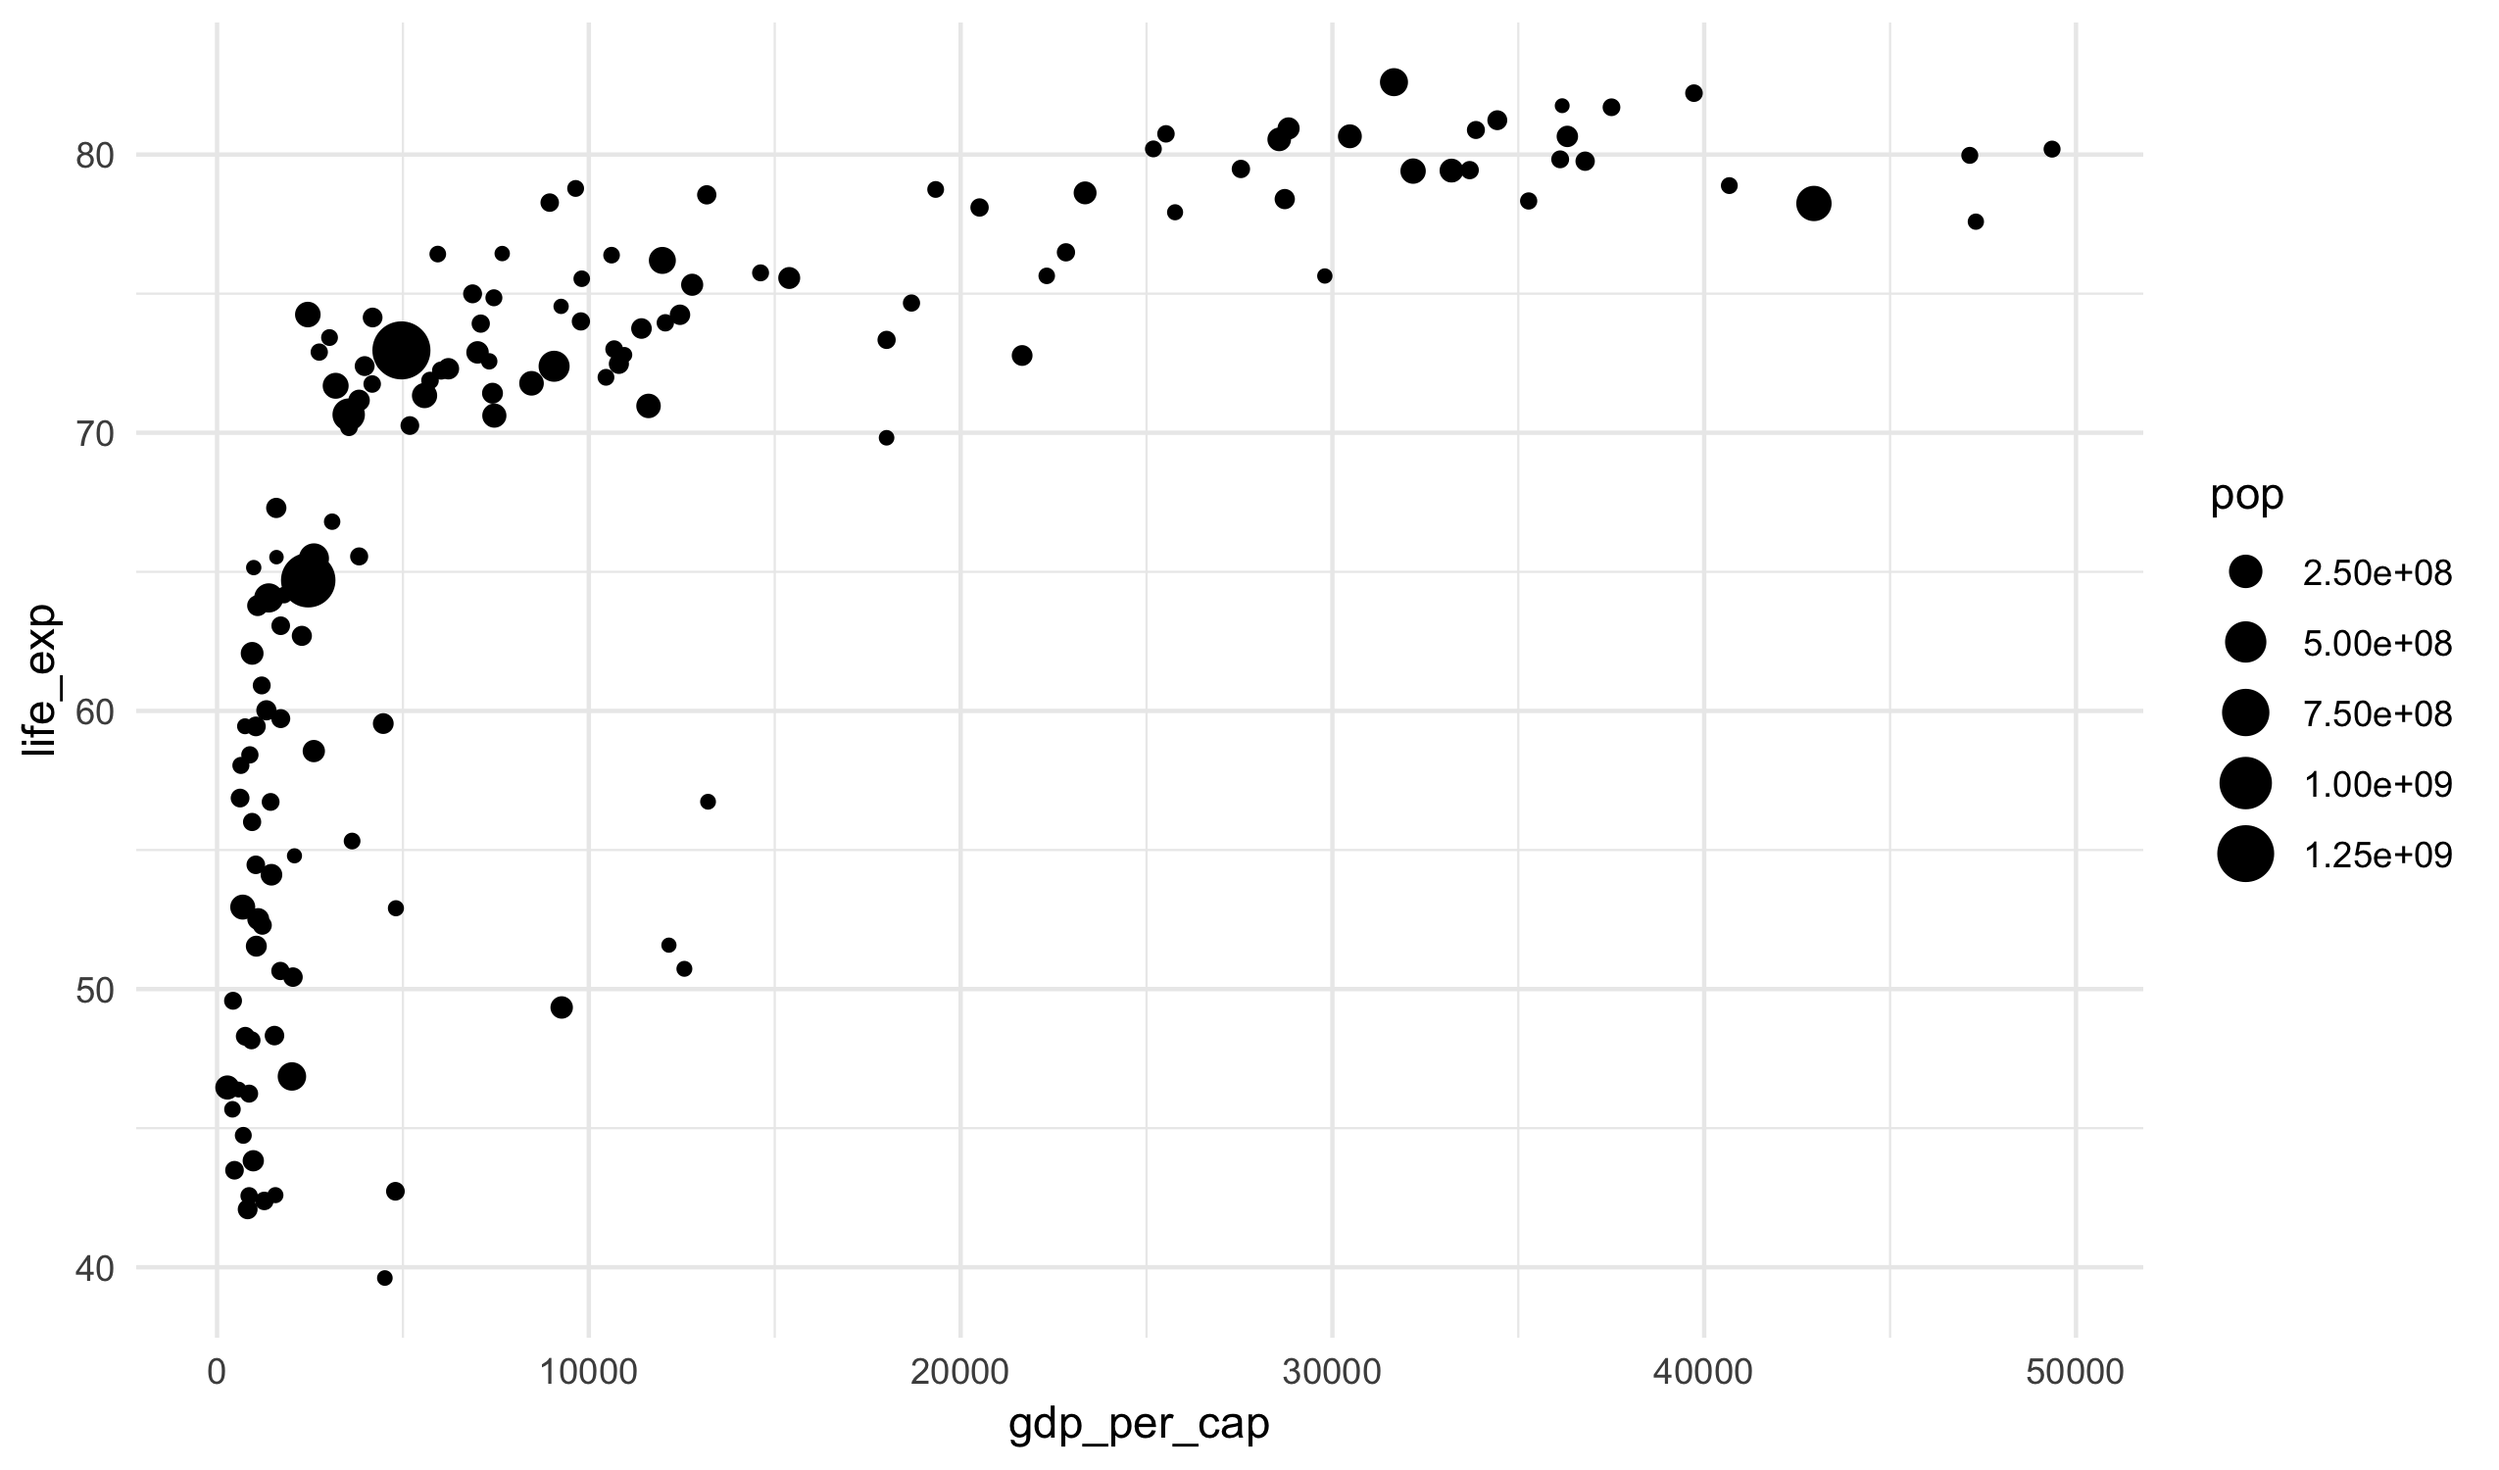
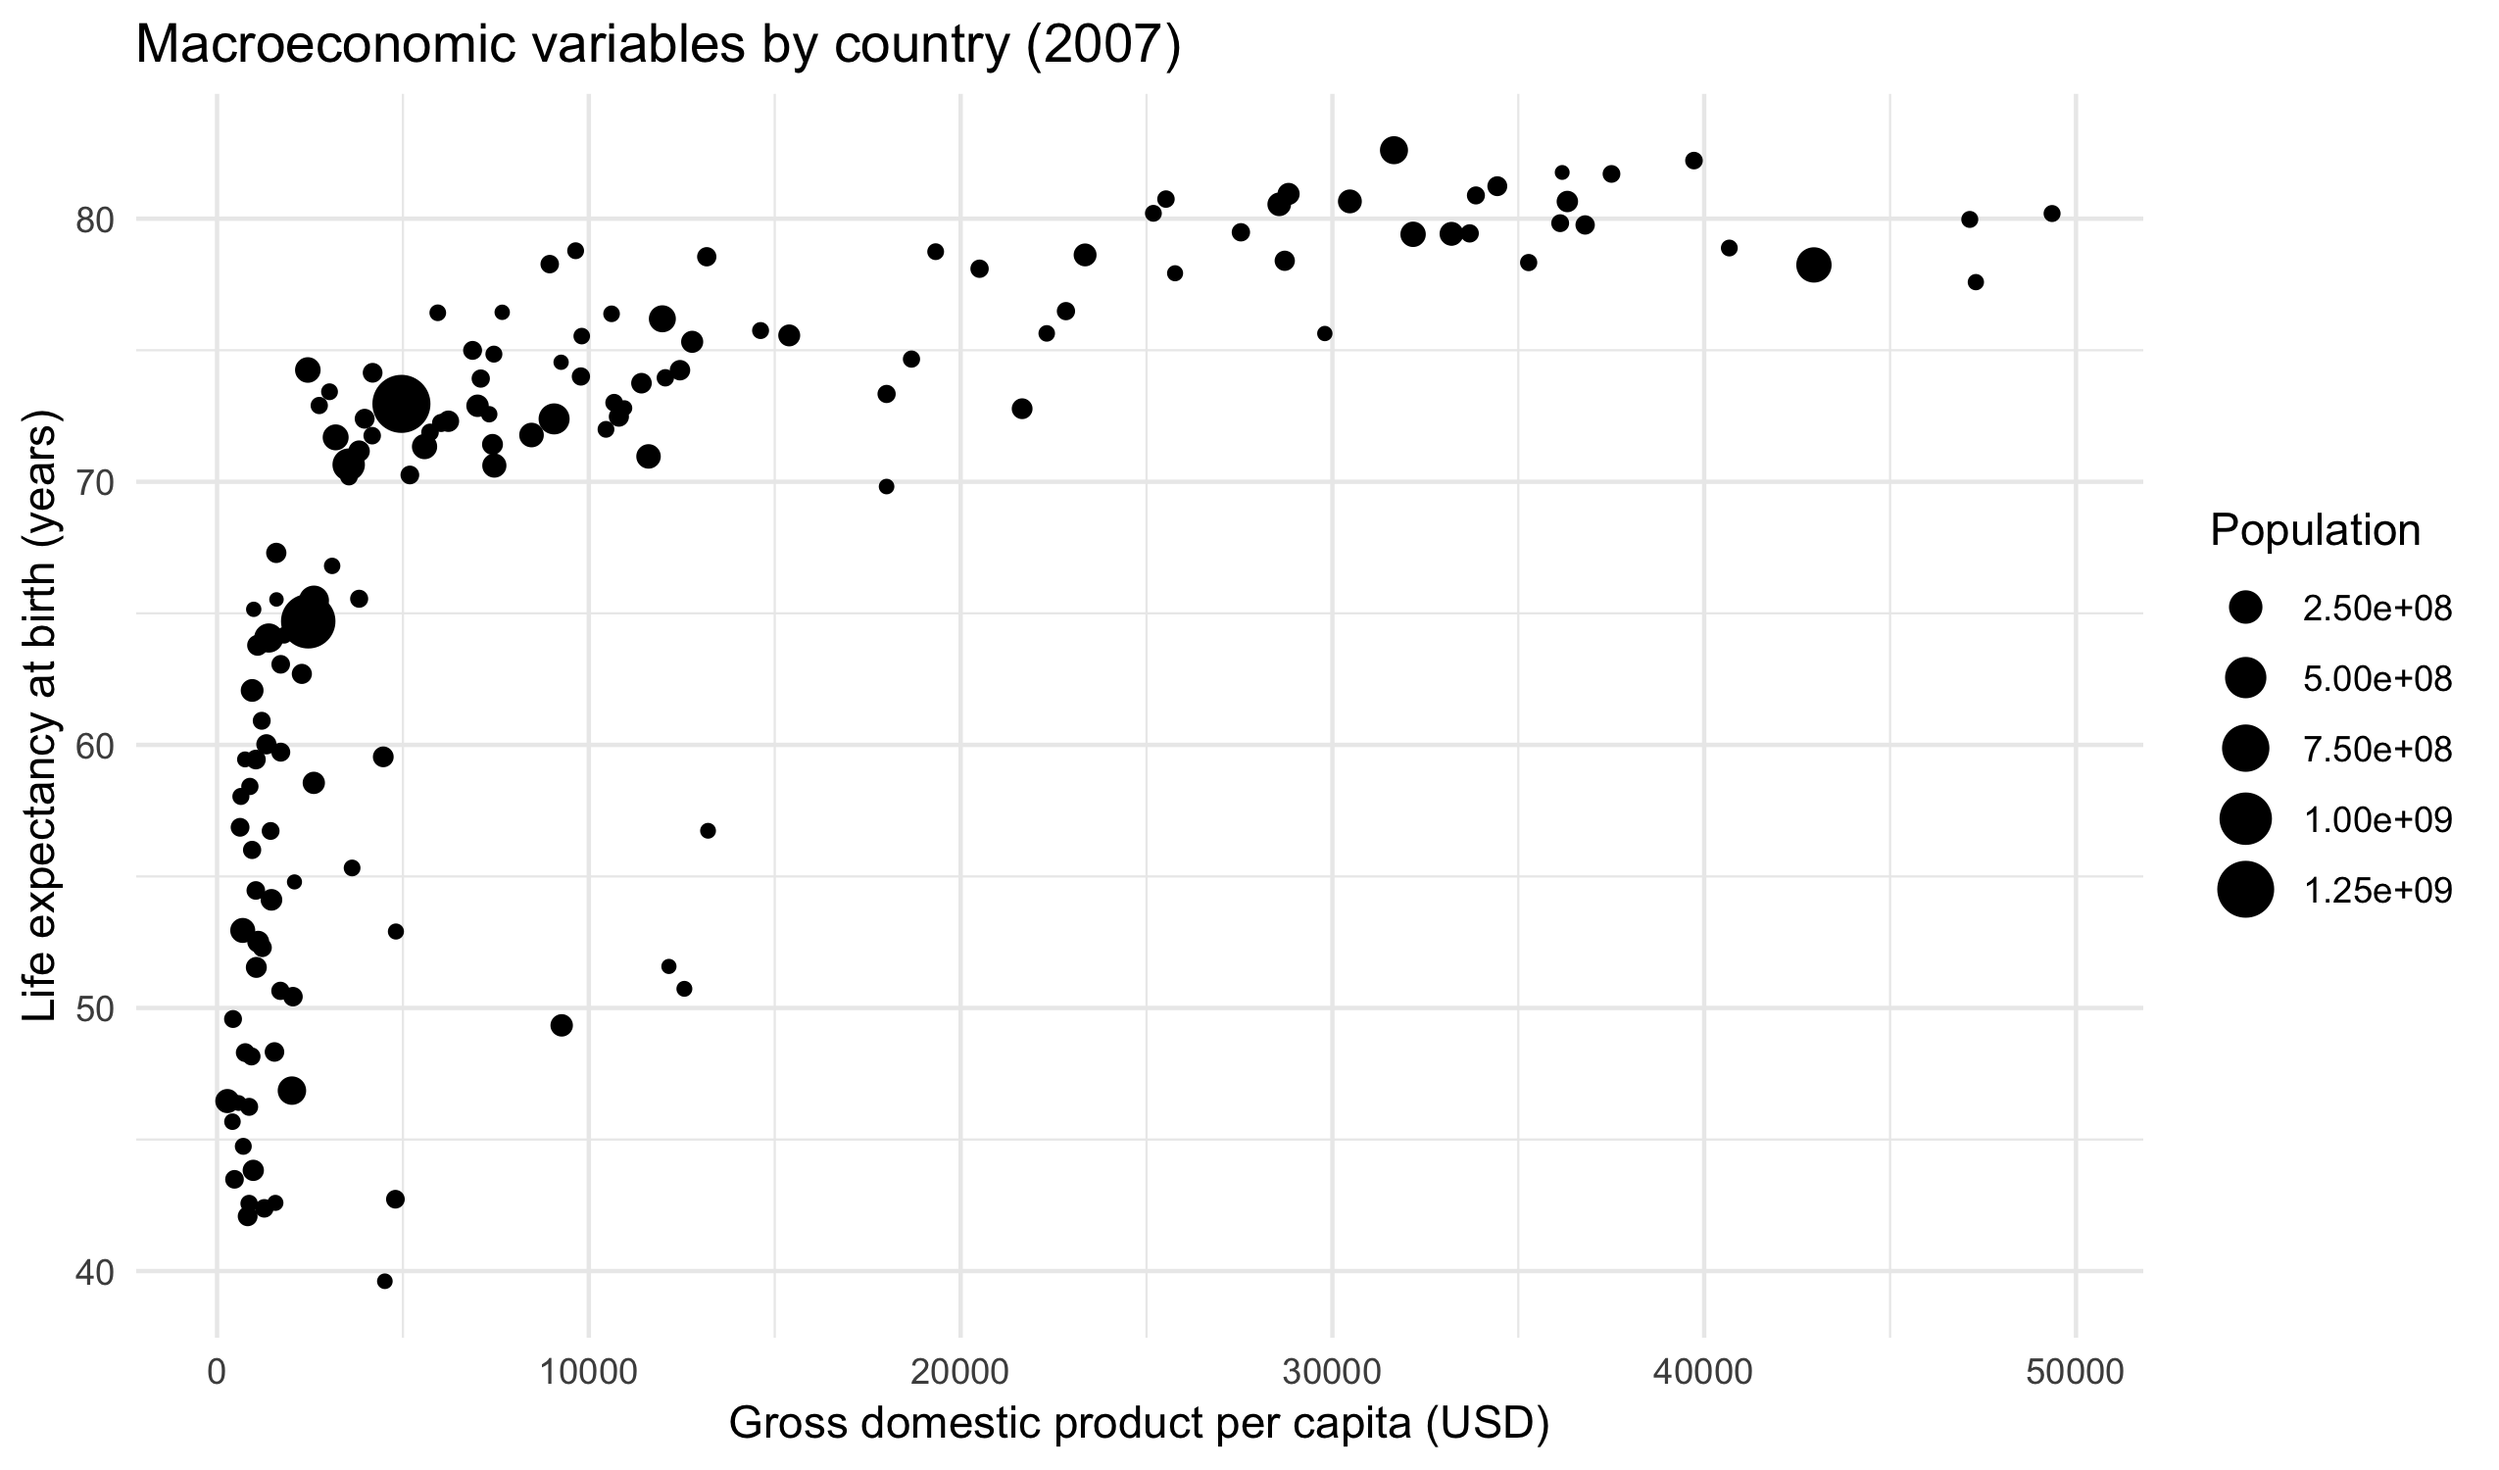
update all

diff --git a/_notes/class09-annotating-data-viz.md b/_notes/class09-annotating-data-viz.md
@@ -25,20 +25,6 @@ For today's notes, we will once again use the `gapminder_2007` dataset:
 gapminder_2007 <- read_csv("https://statsmaths.github.io/stat_data/gapminder_2007.csv")
 {% endhighlight %}
 
-Here is a plot showing several of the ways that layers and aesthetics can
-be used to construct an informative visualization:
-
-
-{% highlight r %}
-ggplot(gapminder_2007, aes(gdp_per_cap, life_exp)) +
-  geom_point(aes(size = pop))
-{% endhighlight %}
-
-<img src="../assets/class09-annotating-data-viz/unnamed-chunk-3-1.png" title="plot of chunk unnamed-chunk-3" alt="plot of chunk unnamed-chunk-3" width="100%" />
-
-I have changed the size of the points to scale with the population, but the
-color of the points is set to a fixed value.
-
 ## Labels
 
 We can add labels to the plot by adding new layers to the plot:
@@ -60,7 +46,7 @@ ggplot(data=gapminder_2007, aes(x=gdp_per_cap, y=life_exp)) +
   ggtitle("Macroeconomic variables by country (2007)")
 {% endhighlight %}
 
-<img src="../assets/class09-annotating-data-viz/unnamed-chunk-4-1.png" title="plot of chunk unnamed-chunk-4" alt="plot of chunk unnamed-chunk-4" width="100%" />
+<img src="../assets/class09-annotating-data-viz/unnamed-chunk-3-1.png" title="plot of chunk unnamed-chunk-3" alt="plot of chunk unnamed-chunk-3" width="100%" />
 
 Do not feel that you need to add complex labels to plots as we are doing
 an exploratory analysis. However, when presenting plots in a report these
@@ -109,7 +95,7 @@ ggplot(data=gapminder_2007, aes(x=gdp_per_cap, y=life_exp)) +
   annotate("point", x = 51736, y = 79.1, color = "red", size = 3)
 {% endhighlight %}
 
-<img src="../assets/class09-annotating-data-viz/unnamed-chunk-8-1.png" title="plot of chunk unnamed-chunk-8" alt="plot of chunk unnamed-chunk-8" width="100%" />
+<img src="../assets/class09-annotating-data-viz/unnamed-chunk-7-1.png" title="plot of chunk unnamed-chunk-7" alt="plot of chunk unnamed-chunk-7" width="100%" />
 
 Similarly, I could label the US on the plot:
 
@@ -120,7 +106,7 @@ ggplot(data=gapminder_2007, aes(x=gdp_per_cap, y=life_exp)) +
   annotate("text", x = 42950, y = 76.7, label = "USA")
 {% endhighlight %}
 
-<img src="../assets/class09-annotating-data-viz/unnamed-chunk-9-1.png" title="plot of chunk unnamed-chunk-9" alt="plot of chunk unnamed-chunk-9" width="100%" />
+<img src="../assets/class09-annotating-data-viz/unnamed-chunk-8-1.png" title="plot of chunk unnamed-chunk-8" alt="plot of chunk unnamed-chunk-8" width="100%" />
 
 Or, highlight the healthy and wealthy part of the plot:
 
@@ -135,7 +121,7 @@ ggplot(data=gapminder_2007, aes(x=gdp_per_cap, y=life_exp)) +
            label = "Healthiest and Wealthiest Countries")
 {% endhighlight %}
 
-<img src="../assets/class09-annotating-data-viz/unnamed-chunk-10-1.png" title="plot of chunk unnamed-chunk-10" alt="plot of chunk unnamed-chunk-10" width="100%" />
+<img src="../assets/class09-annotating-data-viz/unnamed-chunk-9-1.png" title="plot of chunk unnamed-chunk-9" alt="plot of chunk unnamed-chunk-9" width="100%" />
 
 Notice here that I set the aesthetics `fill` (that the filled color
 of the rectangle) and `alpha` (how opaque the rectangle is); I also

diff --git a/_notes/class07-grammar-of-graphics.md b/_notes/class07-grammar-of-graphics.md
@@ -40,24 +40,6 @@ a single year of the data (2007).
 
 {% highlight r %}
 gapminder_2007 <- read_csv("https://statsmaths.github.io/stat_data/gapminder_2007.csv")
-{% endhighlight %}
-
-
-
-{% highlight text %}
-## Parsed with column specification:
-## cols(
-##   country = col_character(),
-##   continent = col_character(),
-##   life_exp = col_double(),
-##   pop = col_integer(),
-##   gdp_per_cap = col_double()
-## )
-{% endhighlight %}
-
-
-
-{% highlight r %}
 gapminder_2007
 {% endhighlight %}
 
@@ -185,7 +167,7 @@ ggplot(gapminder_2007, aes(continent, life_exp)) +
 
 <img src="../assets/class07-grammar-of-graphics/unnamed-chunk-8-1.png" title="plot of chunk unnamed-chunk-8" alt="plot of chunk unnamed-chunk-8" width="100%" />
 
-### Facets
+## Facets
 
 A special layer type within the **ggplot2** framework, facets allow us
 to produce many small plots for each value of a character variable. It
@@ -208,14 +190,10 @@ can do this by adding the option `scales="free"`:
 {% highlight r %}
 ggplot(gapminder_2007, aes(gdp_per_cap, life_exp)) +
   geom_point() +
-  facet_wrap(~continent, scales = "free") + scale_color_viridis(option = "A")
+  facet_wrap(~continent, scales = "free")
 {% endhighlight %}
 
-
-
-{% highlight text %}
-## Error in scale_color_viridis(option = "A"): could not find function "scale_color_viridis"
-{% endhighlight %}
+<img src="../assets/class07-grammar-of-graphics/unnamed-chunk-10-1.png" title="plot of chunk unnamed-chunk-10" alt="plot of chunk unnamed-chunk-10" width="100%" />
 
 There are also options `scales="free_x"` and `scales="free_y"` if you
 would like to only allow one axis to change.

diff --git a/_notes/class10-filtering-data.md b/_notes/class10-filtering-data.md
@@ -30,38 +30,6 @@ many times as it is a great teaching sample):
 
 {% highlight r %}
 flights <- read_csv("https://statsmaths.github.io/stat_data/flights.csv")
-{% endhighlight %}
-
-
-
-{% highlight text %}
-## Parsed with column specification:
-## cols(
-##   year = col_integer(),
-##   month = col_integer(),
-##   day = col_integer(),
-##   dep_time = col_integer(),
-##   sched_dep_time = col_integer(),
-##   dep_delay = col_integer(),
-##   arr_time = col_integer(),
-##   sched_arr_time = col_integer(),
-##   arr_delay = col_integer(),
-##   carrier = col_character(),
-##   flight = col_integer(),
-##   tailnum = col_character(),
-##   origin = col_character(),
-##   dest = col_character(),
-##   air_time = col_integer(),
-##   distance = col_integer(),
-##   hour = col_integer(),
-##   minute = col_integer(),
-##   time_hour = col_datetime(format = "")
-## )
-{% endhighlight %}
-
-
-
-{% highlight r %}
 flights
 {% endhighlight %}
 

diff --git a/_notes/class08-aesthetics.md b/_notes/class08-aesthetics.md
@@ -20,24 +20,6 @@ the first day of class.
 
 {% highlight r %}
 gapminder_2007 <- read_csv("https://statsmaths.github.io/stat_data/gapminder_2007.csv")
-{% endhighlight %}
-
-
-
-{% highlight text %}
-## Parsed with column specification:
-## cols(
-##   country = col_character(),
-##   continent = col_character(),
-##   life_exp = col_double(),
-##   pop = col_integer(),
-##   gdp_per_cap = col_double()
-## )
-{% endhighlight %}
-
-
-
-{% highlight r %}
 gapminder_2007
 {% endhighlight %}
 
